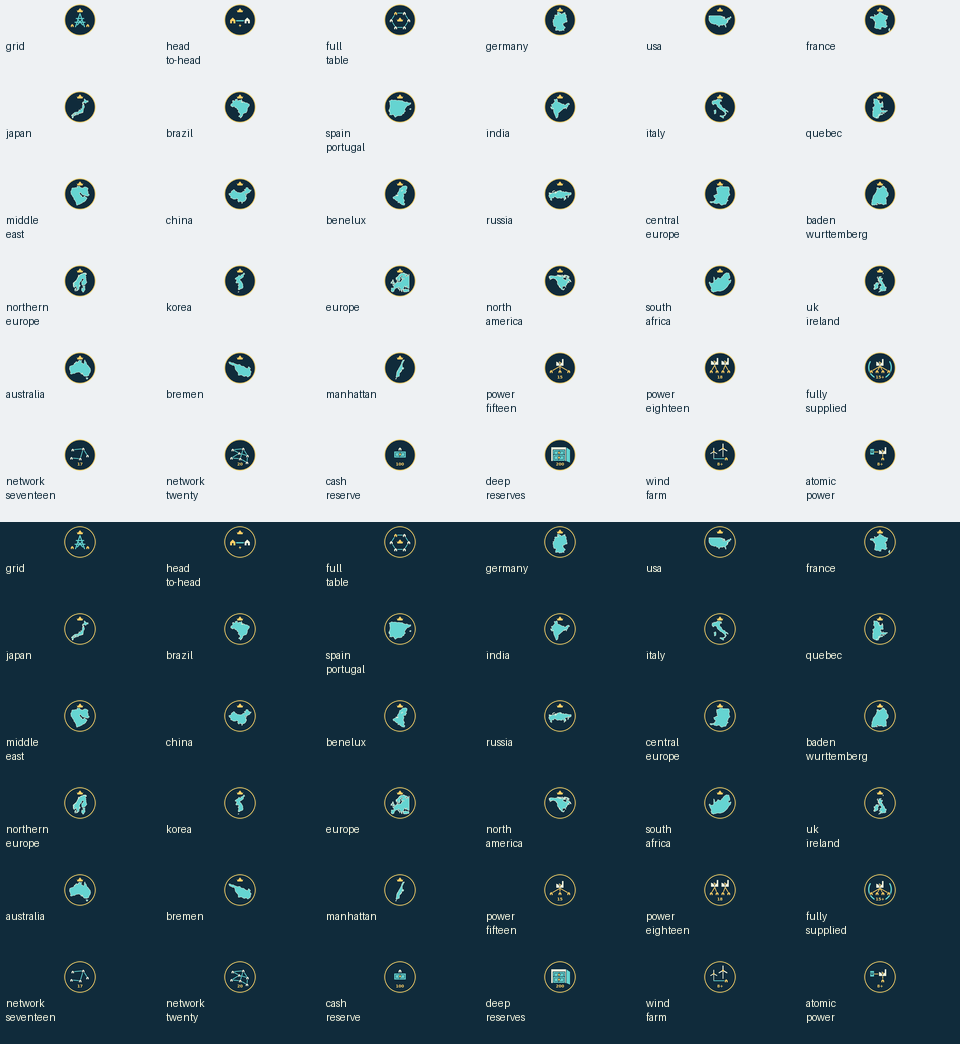
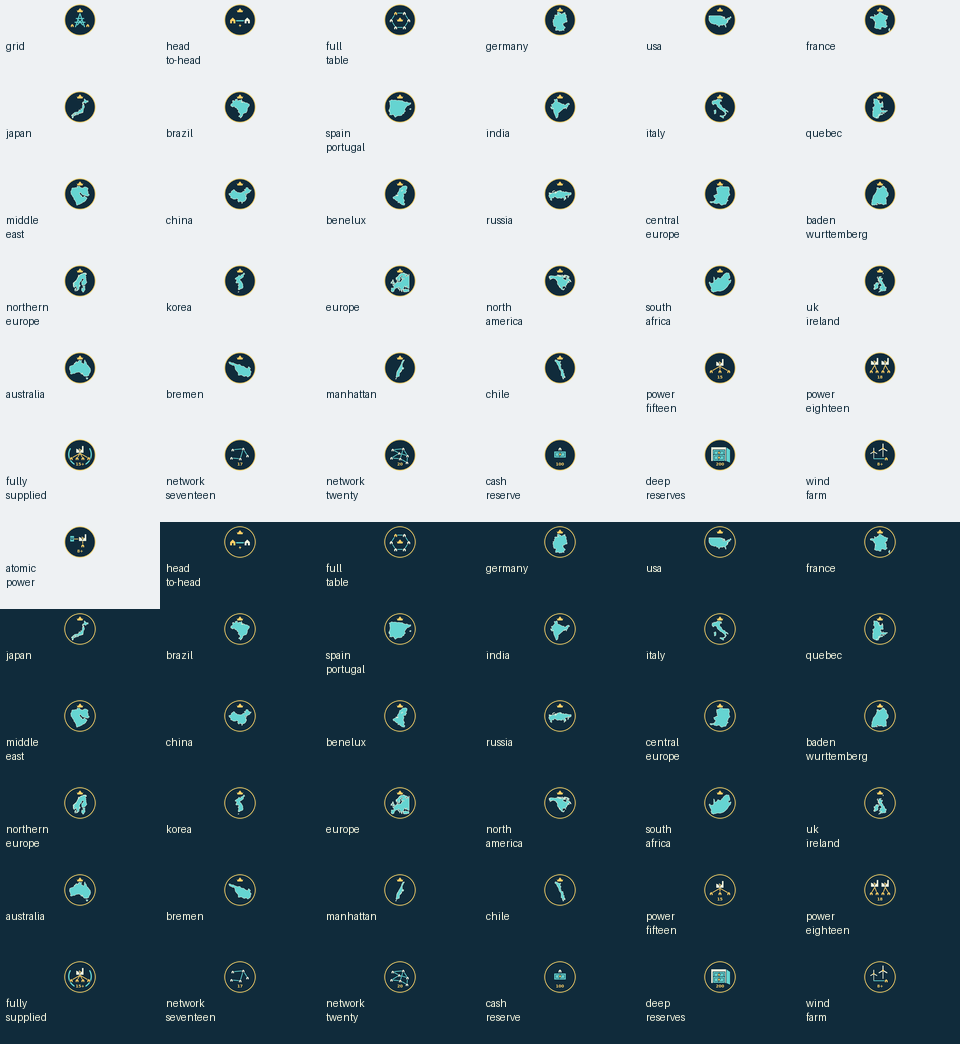
Chile Champion: a map badge for Chile (achievements revision 4, 37 badges)
Chile's real outline (Natural Earth 1:50m), from Arica to Puerto Montt,
widened 2x east-west and turned like the game board so it reads at badge
size. The 36 published badges, their images and the evaluator are unchanged;
the checks now allow exactly this one addition.

diff --git a/engine/src/achievements.spec.ts b/engine/src/achievements.spec.ts
@@ -39,6 +39,7 @@ const ids = [
     'australia-champion',
     'bremen-champion',
     'manhattan-champion',
+    'chile-champion',
     'power-fifteen',
     'power-eighteen',
     'fully-supplied',
@@ -76,6 +77,7 @@ const mapBadges: [MapName, string][] = [
     ['Australia', 'australia-champion'],
     ['Bremen', 'bremen-champion'],
     ['Manhattan', 'manhattan-champion'],
+    ['Chile', 'chile-champion'],
 ];
 
 // Deliberately synthetic final positions: setup supplies the complete state shape,
@@ -112,11 +114,11 @@ function freezeDeep(value: unknown) {
 describe('achievements', function () {
     this.timeout(30000);
 
-    it('publishes all 36 stable IDs in a fresh revisioned manifest', () => {
+    it('publishes all 37 stable IDs in a fresh revisioned manifest', () => {
         const manifest = achievementDefinitions();
-        expect(manifest.revision).to.equal(3);
+        expect(manifest.revision).to.equal(4);
         expect(manifest.achievements.map((a) => a.id)).to.deep.equal(ids);
-        expect(new Set(ids).size).to.equal(36);
+        expect(new Set(ids).size).to.equal(37);
         manifest.achievements.forEach((a) => {
             expect(a.name).to.be.a('string').and.not.equal('');
             expect(a.description).to.be.a('string').and.not.equal('');
@@ -132,19 +134,10 @@ describe('achievements', function () {
         ['original', maps],
         ['recharged', mapsRecharged],
     ] as const) {
-        it(`${variant} runtime maps exactly match the 24 supported badge names`, () => {
-            expect(mapBadges).to.have.length(24);
-            expect(new Set(mapBadges.map(([name]) => name)).size).to.equal(24);
-            // Chile, in testing, has no map badge yet.
-            const badged = runtimeMaps.map((map) => map.name).filter((name) => name !== 'Chile');
-            expect(badged.sort()).to.deep.equal(mapBadges.map(([name]) => name).sort());
-        });
-
-        it(`gives a ${variant} Chile winner the general wins but no map badge`, () => {
-            const state = finalState(6, 'Chile', variant);
-            expect(state.map.name).to.equal('Chile');
-            state.players[1].citiesPowered = 1;
-            expect(earned(state, 1)).to.deep.equal(['grid-champion', 'full-table']);
+        it(`${variant} runtime maps exactly match the 25 supported badge names`, () => {
+            expect(mapBadges).to.have.length(25);
+            expect(new Set(mapBadges.map(([name]) => name)).size).to.equal(25);
+            expect(runtimeMaps.map((map) => map.name).sort()).to.deep.equal(mapBadges.map(([name]) => name).sort());
         });
 
         for (const [map, badge] of mapBadges) {

diff --git a/engine/src/achievements.ts b/engine/src/achievements.ts
@@ -4,8 +4,7 @@ import { GameState, MapName, Player, PowerPlantType } from './gamestate';
 
 // Explicit stable IDs, not generated slugs. Match the resolved map name, never
 // the requested option (which may be Random). Original/Recharged share a badge.
-// Chile, in testing, has no map badge yet: adding one changes the published manifest.
-const mapAchievements: Record<Exclude<MapName, 'Chile'>, string> = {
+const mapAchievements: Record<MapName, string> = {
     Germany: 'germany-champion',
     USA: 'usa-champion',
     France: 'france-champion',
@@ -30,6 +29,7 @@ const mapAchievements: Record<Exclude<MapName, 'Chile'>, string> = {
     Australia: 'australia-champion',
     Bremen: 'bremen-champion',
     Manhattan: 'manhattan-champion',
+    Chile: 'chile-champion',
 };
 
 const definitions: AchievementDefinition[] = [
@@ -80,7 +80,7 @@ const definitions: AchievementDefinition[] = [
 export function achievementDefinitions(): AchievementManifest {
     // A host may cache or modify its copy without changing future evaluations.
     return {
-        revision: 3,
+        revision: 4,
         achievements: definitions.map((definition) => ({
             ...definition,
             icon: { type: 'asset', key: `achievement-${definition.id}` },
@@ -119,7 +119,7 @@ export function achievements(data: GameState): SeatAchievements[] {
             if (data.players.length === 2) earned.push('head-to-head');
             if (data.players.length === 6) earned.push('full-table');
             const mapAchievement = Object.prototype.hasOwnProperty.call(mapAchievements, data.map.name)
-                ? mapAchievements[data.map.name as keyof typeof mapAchievements]
+                ? mapAchievements[data.map.name as MapName]
                 : undefined;
             if (mapAchievement) earned.push(mapAchievement);
         }

diff --git a/scripts/generate-achievement-art.py b/scripts/generate-achievement-art.py
@@ -13,8 +13,11 @@ OUT = ROOT / 'art/achievements'
 OUT.mkdir(parents=True, exist_ok=True)
 GOLD, INK, BLUE, WHITE = '#ffcf66', '#102b3b', '#65d4d1', '#f4f5de'
 BASE = json.loads((ROOT / 'docs/releases/achievements-2.0.33.json').read_text())['achievementManifest']
+# Revision 4 adds Chile Champion after the 24 map badges of revision 3.
+CHILE = dict(id='chile-champion', name='Chile Champion', description='Win on the Chile map.')
+BASE['achievements'].insert(27, CHILE)
 FRAMING = runpy.run_path(str(ROOT / 'scripts/achievement-map-framing.py'))
-MAPS = dict(zip([d['id'] for d in BASE['achievements'][3:27]], ['germany','america','france','japan','brazil','spainportugal','indian','italy','quebec','middleeast','china','benelux','russia','centraleurope','badenwurttemberg','northerneurope','korea','europe','northamerica','southafrica','ukireland','australia','bremen','manhattan']))
+MAPS = dict(zip([d['id'] for d in BASE['achievements'][3:28]], ['germany','america','france','japan','brazil','spainportugal','indian','italy','quebec','middleeast','china','benelux','russia','centraleurope','badenwurttemberg','northerneurope','korea','europe','northamerica','southafrica','ukireland','australia','bremen','manhattan','chile']))
 def path(d, fill=BLUE, stroke=INK, width=2):
     return f'<path d="{d}" fill="{fill}" stroke="{stroke}" stroke-width="{width}" stroke-linejoin="round" stroke-linecap="round"/>'
 def line(a,b,color=BLUE,width=3):
@@ -37,7 +40,7 @@ def motif(id):
     if id in MAPS:
         paths, _ = FRAMING['framed_map'](MAPS[id])
         body=''.join(path(d,BLUE,WHITE,1.25) for d in paths)
-        return body+crown(64,21), FRAMING['SOURCE']
+        return body+crown(64,21), FRAMING['source_for'](MAPS[id])
     if id=='grid-champion':
         return crown()+path('M64,38 L46,91 M64,38 L82,91 M49,58 H79 M44,73 H84 M55,62 L75,84 M73,62 L53,84','none',BLUE,4)+house(33,85,.8,True)+house(95,85,.8,True),None
     if id=='head-to-head':
@@ -75,7 +78,7 @@ for item in manifest:
     if item['id'] in MAPS:
         item['map'] = MAPS[item['id']]
         item['framing'] = FRAMING['framed_map'](item['map'])[1]
-(OUT/'manifest.json').write_text(json.dumps(dict(game='powergrid',engine='2.0.34',revision=3,provenance='PROVENANCE.md',framingSha256=hashlib.sha256((ROOT/'scripts/achievement-map-framing.py').read_bytes()).hexdigest(),generatorSha256=hashlib.sha256(Path(__file__).read_bytes()).hexdigest(),assets=manifest),indent=2)+'\n')
+(OUT/'manifest.json').write_text(json.dumps(dict(game='powergrid',engine='2.0.35',revision=4,provenance='PROVENANCE.md',framingSha256=hashlib.sha256((ROOT/'scripts/achievement-map-framing.py').read_bytes()).hexdigest(),generatorSha256=hashlib.sha256(Path(__file__).read_bytes()).hexdigest(),assets=manifest),indent=2)+'\n')
 # Actual raster exports composited at display sizes, not enlarged SVG screenshots.
 for size in [32,48,64]:
     sheet=Image.new('RGB',(960,6*(size+55)*2),'#eef1f3'); draw=ImageDraw.Draw(sheet)

diff --git a/scripts/achievement-map-framing.py b/scripts/achievement-map-framing.py
@@ -9,6 +9,7 @@ import math
 from pathlib import Path
 from shapely.geometry import shape, box
 from shapely.ops import transform
+from shapely import affinity
 
 ROOT = Path(__file__).resolve().parents[1]
 SOURCE = 'viewer/scripts/geography/source.json'
@@ -38,20 +39,31 @@ FRAMES = {
     'australia': ((112, -44, 154, -10), 'Australian mainland and Tasmania; omit external Indian/Pacific Ocean territories.'),
     'bremen': ((8.4, 52.98, 9.03, 53.27), 'Bremen city component; omit detached Bremerhaven to preserve city silhouette.'),
     'manhattan': ((-74.025, 40.68, -73.9, 40.885), 'Manhattan main island; omit tiny detached borough islets.'),
+    'chile': ((-76, -43, -66, -17), 'Chile from Arica to Puerto Montt, the stretch on the board; widened 2x east-west and turned 40 degrees, as on the board, so the thin country reads at badge size.'),
 }
+# Maps whose outline is not in SOURCE (Chile, in testing, has its own Natural Earth cut).
+SOURCES = {'chile': 'viewer/scripts/geography/chile-badge.json'}
+# Chile only: the board's east-west widening and the turn it is drawn at (degrees, clockwise on screen).
+SHAPES = {'chile': dict(widen=2, turn=-40)}
+
+def source_for(name):
+    return SOURCES.get(name, SOURCE)
 
 def polygons(geometry):
     return [geometry] if geometry.geom_type == 'Polygon' else [p for p in geometry.geoms if p.geom_type == 'Polygon']
 
 def framed_map(name):
-    data = json.loads((ROOT / SOURCE).read_text())['maps'][name]
+    data = json.loads((ROOT / source_for(name)).read_text(encoding='utf-8'))['maps'][name]
     bounds, reason = FRAMES[name]
+    shaping = SHAPES.get(name, {})
     # Local equirectangular projection preserves a sensible geographic aspect;
     # unlike the viewer's city-fitted warp it never joins separate islands.
-    cosine = math.cos(math.radians((bounds[1] + bounds[3]) / 2))
+    cosine = math.cos(math.radians((bounds[1] + bounds[3]) / 2)) * shaping.get('widen', 1)
     project = lambda x, y, z=None: (x * cosine, -y)
     selected = shape(data['active']).intersection(box(*bounds))
     projected = transform(project, selected)
+    if shaping.get('turn'):
+        projected = affinity.rotate(projected, shaping['turn'], origin='centroid')
     parts = polygons(projected)
     # Remove subpixel islands BEFORE fitting, so a remote speck cannot set scale.
     largest = max(p.area for p in parts)
@@ -69,5 +81,5 @@ def framed_map(name):
     metrics = dict(window=list(bounds), reason=reason, components=len(parts),
                    bounds=[x0*scale+tx,y0*scale+ty,x1*scale+tx,y1*scale+ty],
                    principalSpan=max(max(p.bounds[2]-p.bounds[0],p.bounds[3]-p.bounds[1]) for p in screen),
-                   simplifyTolerance=.45, minRelativeArea=.003)
+                   simplifyTolerance=.45, minRelativeArea=.003, **shaping)
     return paths, metrics

diff --git a/scripts/check-achievement-art.py b/scripts/check-achievement-art.py
@@ -11,8 +11,11 @@ root = Path(__file__).resolve().parents[1]
 folder = root / 'art/achievements'
 manifest = json.loads((folder / 'manifest.json').read_text())
 baseline = json.loads((root / 'docs/releases/achievements-2.0.33.json').read_text())['achievementManifest']
-assert [a['id'] for a in manifest['assets']] == [a['id'] for a in baseline['achievements']]
-assert len(manifest['assets']) == 36
+# Revision 4 adds Chile Champion after the other map badges.
+baseline_ids = [a['id'] for a in baseline['achievements']]
+baseline_ids.insert(27, 'chile-champion')
+assert [a['id'] for a in manifest['assets']] == baseline_ids
+assert len(manifest['assets']) == 37
 framing = runpy.run_path(str(root / 'scripts/achievement-map-framing.py'))
 assert manifest['framingSha256'] == hashlib.sha256((root / 'scripts/achievement-map-framing.py').read_bytes()).hexdigest()
 assert manifest['generatorSha256'] == hashlib.sha256((root / 'scripts/generate-achievement-art.py').read_bytes()).hexdigest()
@@ -51,9 +54,11 @@ for a in manifest['assets']:
                 cyan = sum(1 for r,g,b,alpha in pixels.get_flattened_data()
                            if alpha > 200 and g > r*1.3 and b > r*1.3 and g > 110)
                 assert cyan >= size*size*.025, (a['id'], size, cyan)
-assert sum(bool(a['source']) for a in manifest['assets']) == 24
+assert sum(bool(a['source']) for a in manifest['assets']) == 25
 old = subprocess.check_output(['git', 'show', 'c52a87e4b9c41feb35d8e902643514d99fe722f1:engine/src/achievements.ts'], cwd=root).decode()
-new = (root / 'engine/src/achievements.ts').read_text()
+# The evaluator is unchanged apart from Chile's line in the map table.
+new = (root / 'engine/src/achievements.ts').read_text().replace("    Chile: 'chile-champion',
+", '')
 assert old.split('export function achievementDefinitions')[0] == new.split('export function achievementDefinitions')[0]
 assert old.split('function tied(')[1] == new.split('function tied(')[1]
-print('36 unique decoded 256px PNGs; 24 hashed geographic sources; full IDs/definitions and evaluator unchanged.')
+print('37 unique decoded 256px PNGs; 25 hashed geographic sources; full IDs/definitions and evaluator unchanged.')

diff --git a/docs/achievements.md b/docs/achievements.md
@@ -1,5 +1,7 @@
 # Power Grid achievements
 
+**Revision 4 (this fork, not yet published): 37 achievements.** Adds `chile-champion` (Chile Champion, "Win on the Chile map.") after the other map badges, for the Chile map now in testing. The 36 published definitions, their order around it, and the evaluator are otherwise unchanged; `engine/scripts/check-achievements.mjs` checks exactly that against the revision-2 receipt. Its badge art is described in `art/achievements/PROVENANCE.md`. Everything below describes the published revision 2.
+
 **Published: engine 2.0.33, manifest revision 2, 36 achievements.** Adds 20 map victories (24 total) and raises Fully Supplied from a 10-city to a 15-city minimum, preserving its complete-network condition. The separate powered-city tiers remain 15 and 18. No viewer, artwork, map-cap, scoring, or backfill changes. Existing awards are not recalculated or revoked by this change.
 
 Independent review approved `2f89876`; publication and installer verification are recorded in `docs/releases/achievements-2.0.33.json`. The previous revision-1 release receipt remains in `docs/releases/achievements-2.0.32.json`.
@@ -66,6 +68,7 @@ Each entry is **Win on the named map**, including shared first place, never mere
 | Australia          | `australia-champion`         |
 | Bremen             | `bremen-champion`            |
 | Manhattan          | `manhattan-champion`         |
+| Chile (revision 4) | `chile-champion`             |
 | Japan              | `japan-champion`             |
 
 Names are matched exactly against resolved `data.map.name`; `options.map` is not consulted. Random selection therefore earns the resolved map badge. Original and Recharged share an ID, as do deck/region variants on the same named map. USA is not an alias for North America. Internal module names such as `america`/`indian`, translations, accent-stripped names, and unsupported names are not accepted map aliases. Explicit ASCII IDs omit ampersands and transliterate ü to u, without runtime slug generation.

diff --git a/art/achievements/PROVENANCE.md b/art/achievements/PROVENANCE.md
@@ -57,6 +57,20 @@ The component count is after the documented window and small-islet filtering.
 | bremen           | Bremen city component; omit detached Bremerhaven to preserve city silhouette.                                                       | 1          |
 | manhattan        | Manhattan main island; omit tiny detached borough islets.                                                                           | 5          |
 
+## Chile Champion (revision 4)
+
+Chile's outline is Natural Earth 1:50m admin-0 Chile (the same public-domain
+release as above), stored on its own in `viewer/scripts/geography/chile-badge.json`
+because Chile has no entry in `source.json`. Its window is the stretch on the
+board, Arica to Puerto Montt (lon -76..-66, lat -43..-17). The true outline is
+too thin to read at badge size (under 1% silhouette ink at 32px against the
+2.5% floor), so, as on the game board, it is widened 2x east-west and turned
+40 degrees (`SHAPES` in `scripts/achievement-map-framing.py`); then it is fitted,
+filtered and simplified exactly like the other 24. Its PNG was rasterised with
+headless Chromium at 256px on a transparent page because CairoSVG's system Cairo
+was not available; re-running the generator with CairoSVG re-renders it. The
+other 36 PNGs are unchanged.
+
 These existing game-map geographic datasets are derived from:
 
 -   Natural Earth, public domain, https://www.naturalearthdata.com/about/terms-of-use/
